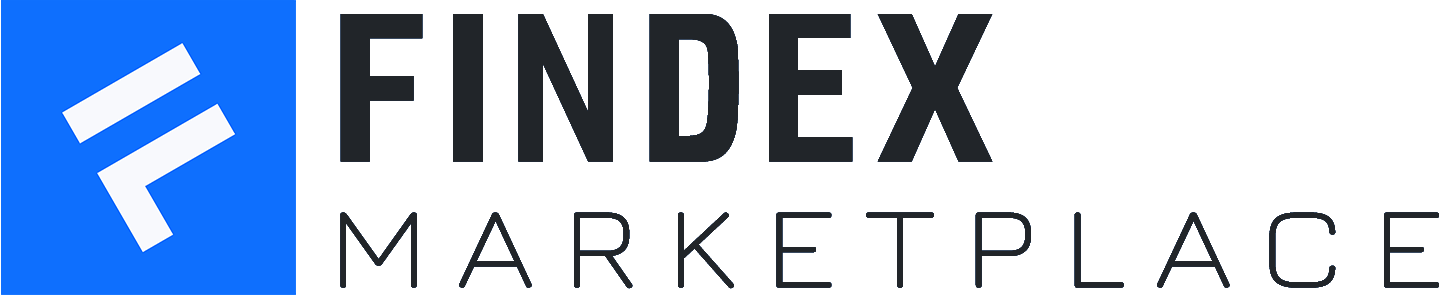
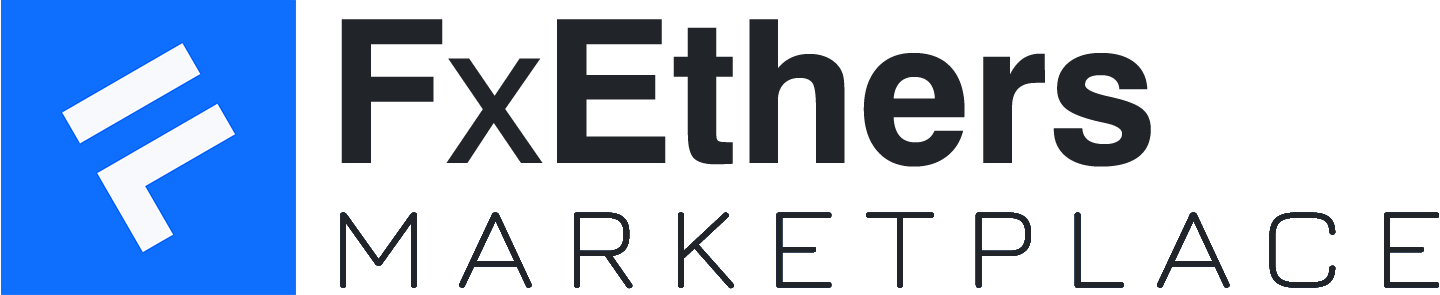
update workflow

Changed region(s): [[0.2188, 0.0305, 0.8125, 0.5797]]

diff --git a/client/src/components/Footer.js b/client/src/components/Footer.js
@@ -17,7 +17,7 @@ class Footer extends React.Component {
                                 height="42"
                                 className="d-inline-block align-top mt-2"
                             />
-                            <p className='fw-bold fs-5 mb-0'>FINDEX</p>
+                            <p className='fw-bold fs-5 mb-0'>FxEthers</p>
                             <p>Freedom marketplace to buy, sell, and discover NFT items.</p>
                             <p>Goerli testnet: { }
                             <ToastAutoHide message='Copy this contract address' feedback='Copied to clipboard!' title={this.props.contractAddress} content={this.props.contractAddress} />
